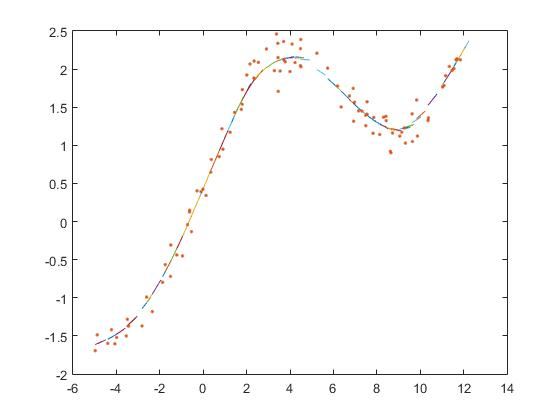
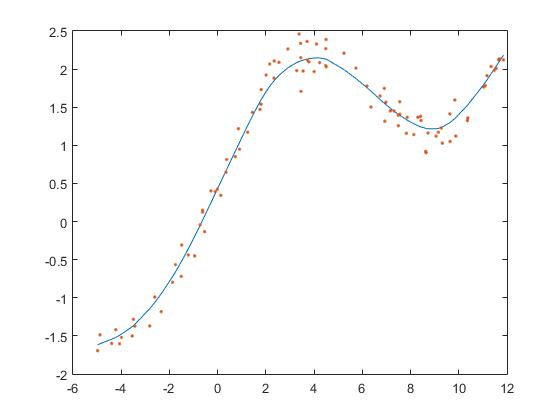
ques. 3rd complete logistic regression

diff --git a/logistic.m b/logistic.m
@@ -1,0 +1,62 @@
+function theta = logistic( file1, file2, epsilon )
+%UNTITLED Summary of this function goes here
+%   Detailed explanation goes here
+    x = importdata(file1);
+    y = importdata(file2);
+    [m,n] = size(x);
+    x = [ones(m,1) x];
+    n = n+1;
+    theta = zeros(n,1);
+    sig = zeros(m,1);
+    
+    while(true)
+        for index = 1:m
+            sig(index) = 1/(1+exp(-1*x(index,:)*theta));
+        end
+        hessian = zeros(n,n);
+        for row_index = 1:n
+            for col_index = 1:n
+                val = 0;
+                for index1 = 1:m
+                    g = sig(index1);
+                    val = val + (g * (1-g) * x(index1,row_index) * x(index1,col_index));
+                end
+                val = -val;
+                hessian(row_index,col_index) = val;
+            end
+        end
+        val1 = zeros(n,1);
+        for index2 = 1:m
+            val1 = val1 + (y(index2) - sig(index2))*x(index2,:)';
+        end
+        update = theta - (hessian\val1);
+        if(abs(update - theta) <= epsilon)
+            theta = update;
+            break;
+        end
+        theta = update;
+    end
+    %ezplot(sprintf('%f*x1 + %f*x2 + %f = 0',theta(3),theta(2),theta(1)));
+    %hold on;
+    x1_0 = [];
+    x1_1 = [];
+    for index3 = 1:m
+        if(y(index3) == 0)
+            x1_0 = [x1_0; x(index3,:)];
+        elseif(y(index3) == 1)
+            x1_1 = [x1_1; x(index3,:)];
+        end
+    end
+    disp(x1_0);
+    disp(x1_1);
+    plot(x1_0(:,2),x1_0(:,3),'ro','userdata','y = 0');
+    hold on;
+    plot(x1_1(:,2),x1_1(:,3),'b*','userdata','y = 1');
+    hold on;
+    legend(get(gca, 'children'), get(get(gca, 'children'), 'userdata'))  % correct
+    %theta(1)*x(1) + theta(2)*x(2) + theta(3)*x(3) = 0;
+    xx = x(:,2);
+    yy = -(theta(1) + theta(2)*xx)/theta(3);
+    plot(xx,yy);
+end
+

diff --git a/weightLR.m b/weightLR.m
@@ -6,18 +6,18 @@ function theta = weightLR( file1, file2, bw)
     [m,n] = size(x);
     x = [ones(m,n) x];
     n = n+1;
-    %theta = zeros(n,1);
+    theta = zeros(n,1);
     w = zeros(m,m);
+    y_est = zeros(m,1);
     for index = 1:m
         for index1 = 1:m
             w(index1,index1) = exp(-((x(index,2)-x(index1,2))^2)/(2*(bw^2)));
         end
         theta = (inv(x'*w*x))*x'*w*y;
-        x1 = linspace(x(index,2),x(index,2)+0.4);
-        x2 = [ones(100,1) x1'];
-        y_est = x2*theta;
-        plot(x1,y_est,importdata(file1),importdata(file2),'.');
-        hold on;
+        y_est(index) = x(index,:)*theta;
     end
+    xy = [x(:,2) y_est];
+    xy = sortrows(xy);
+    plot(xy(:,1),xy(:,2),x(:,2),y,'.');
 end
 

diff --git a/gda.m b/gda.m
@@ -1,0 +1,7 @@
+function [ output_args ] = gda( file1, file2 )
+%UNTITLED3 Summary of this function goes here
+%   Detailed explanation goes here
+
+
+end
+
